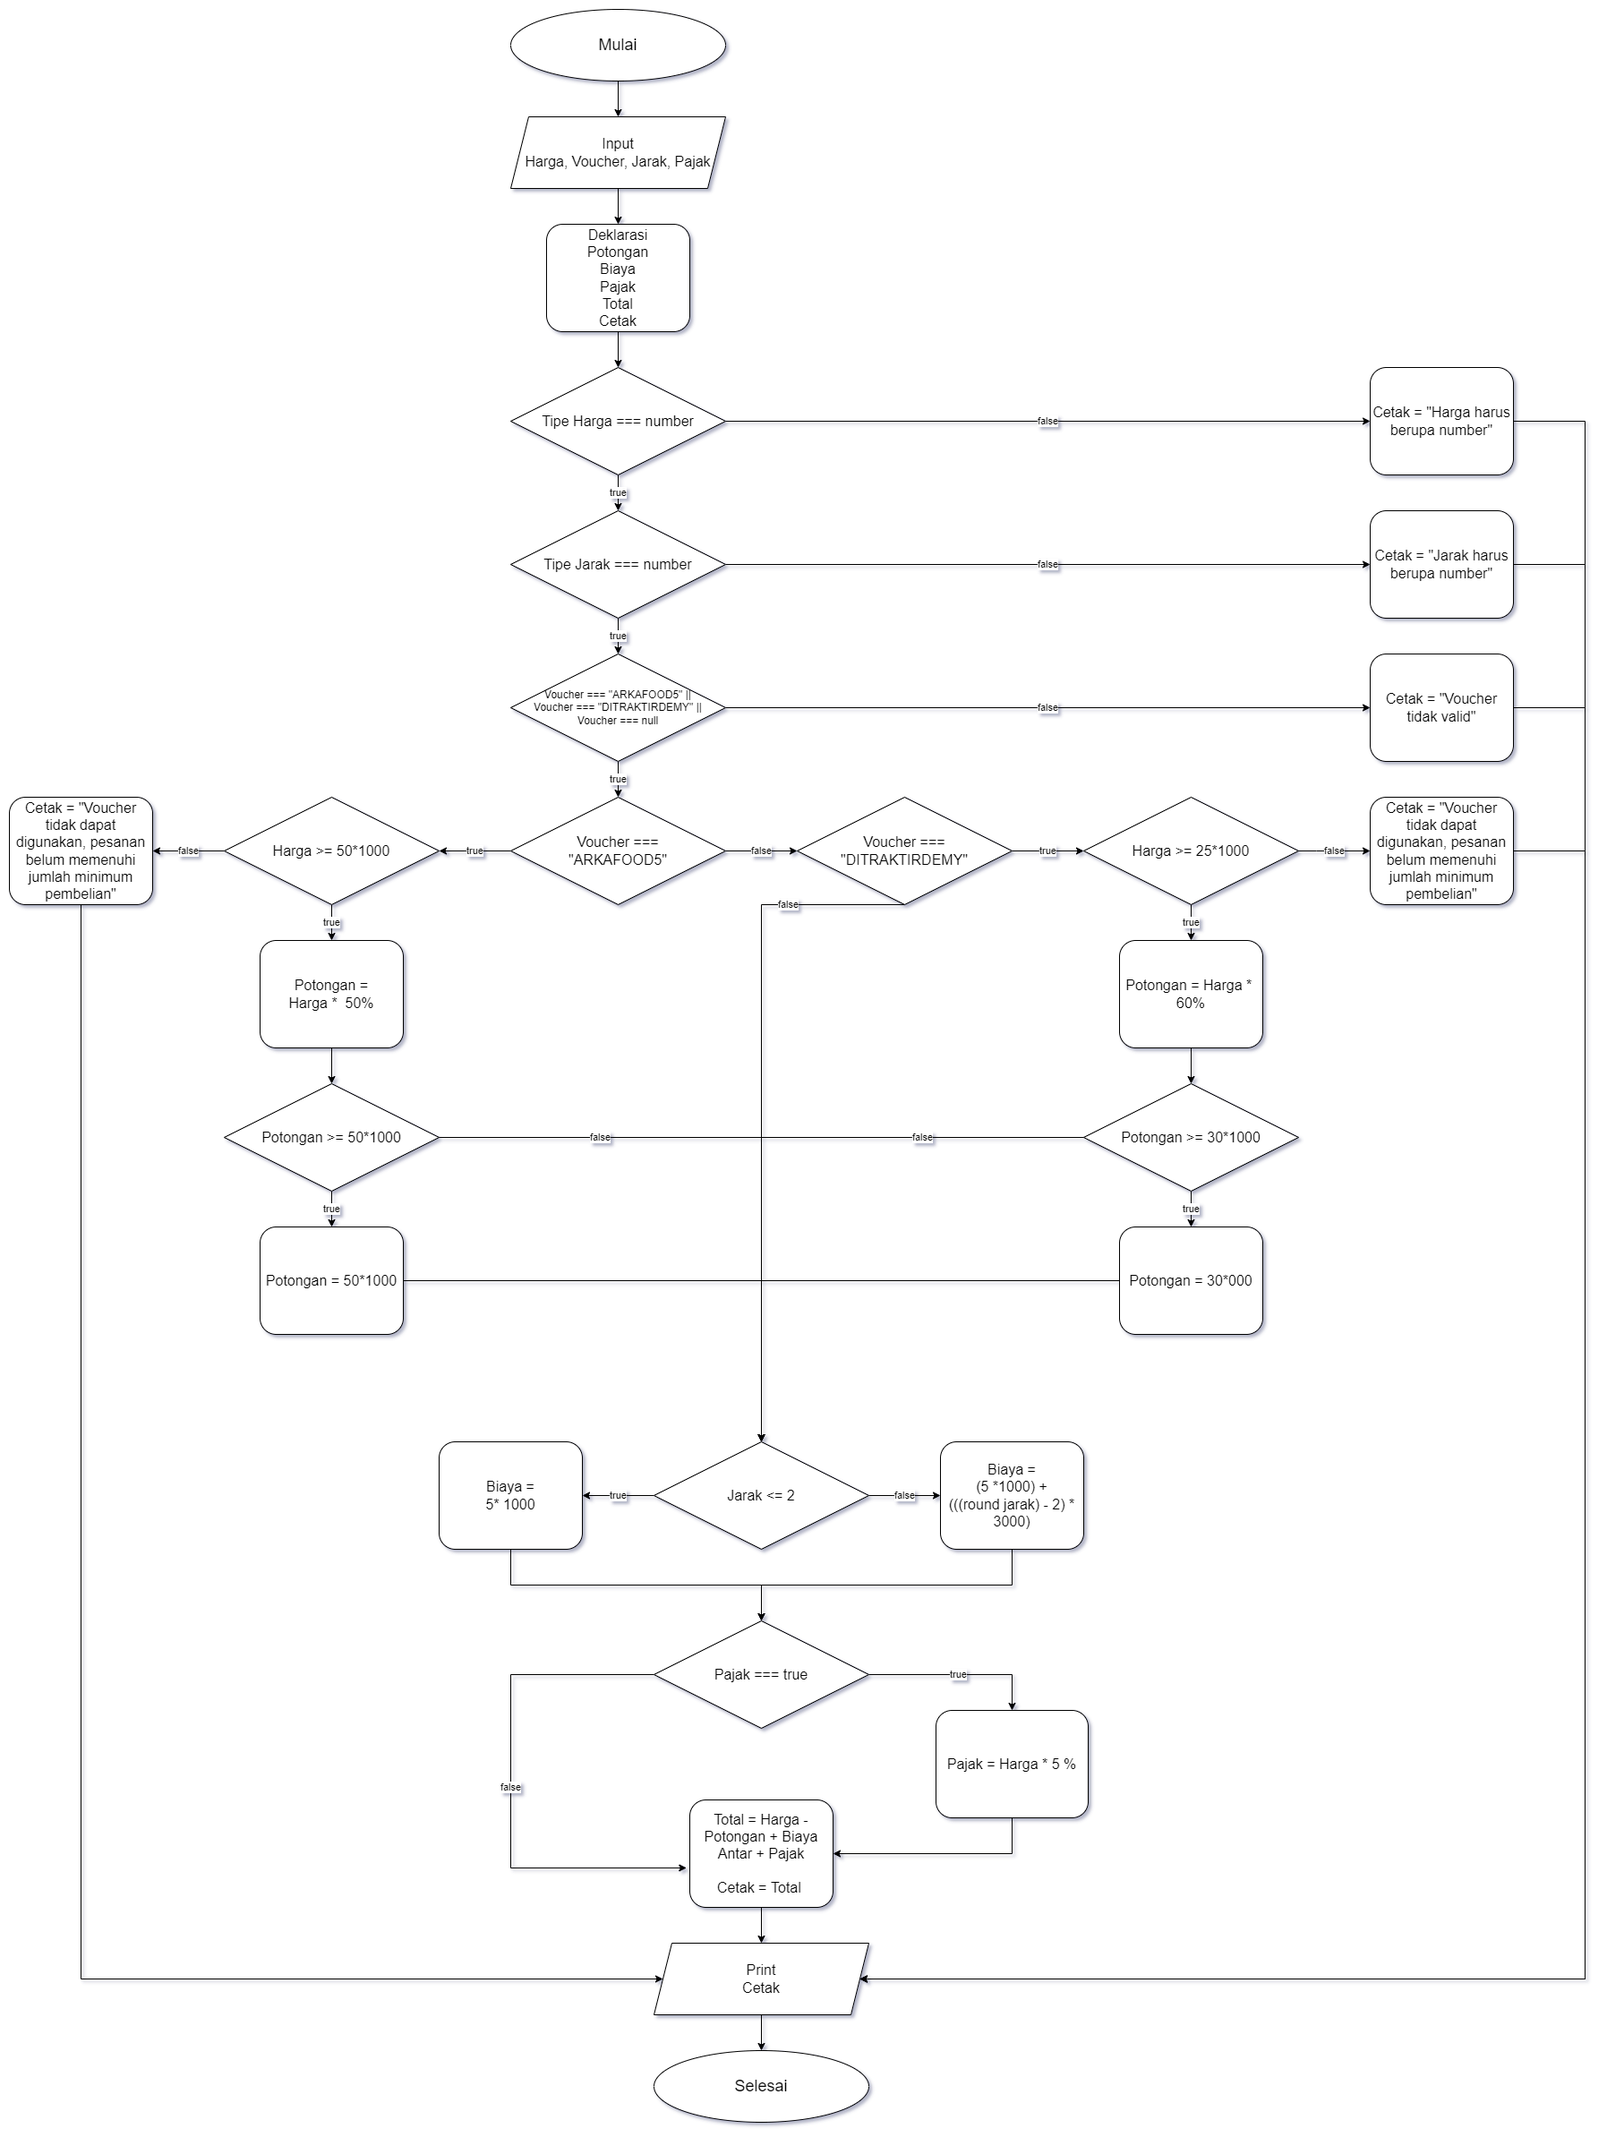
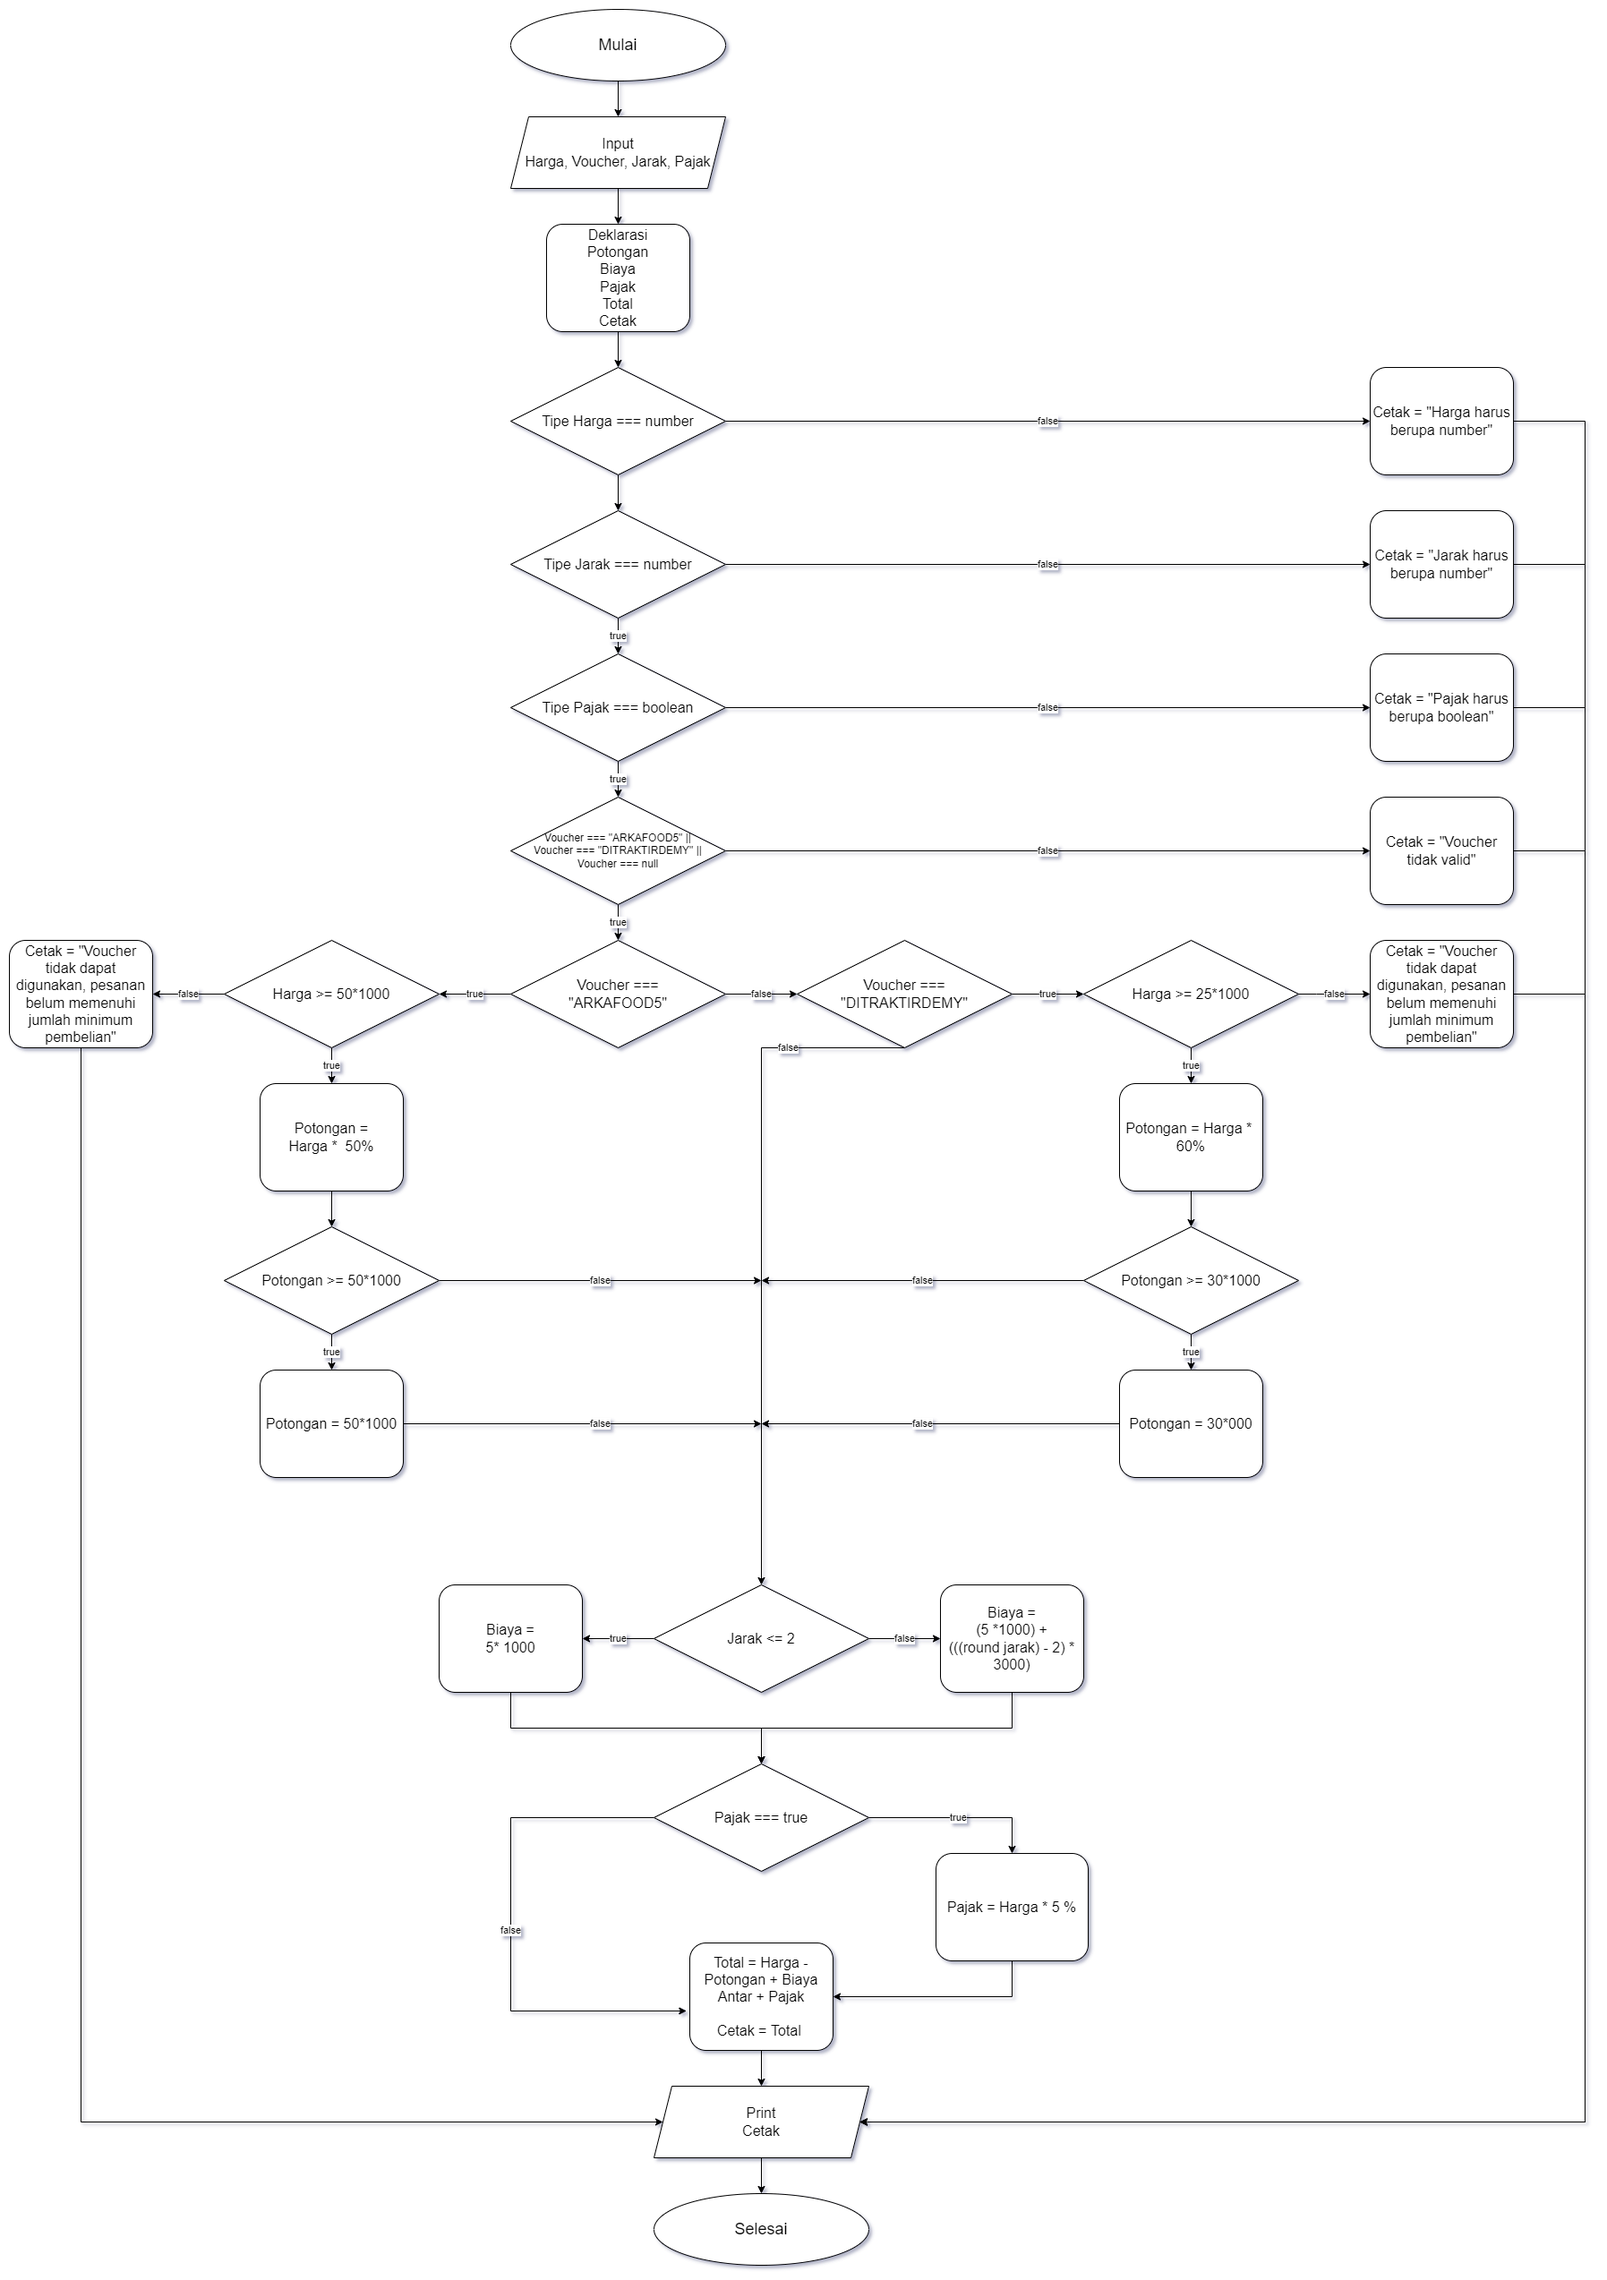
Revisi selesai

diff --git a/Tugas/2. Code Implementation/task3-2.js b/Tugas/2. Code Implementation/task3-2.js
@@ -4,32 +4,35 @@ const ArkFood = (harga, voucher, jarak, pajak)=>{
     let biayaPajak = 0;
     let total = 0;
 
-    if(typeof harga !== "number"){
-        return console.log("\nHarga harus berupa number!\n");
+    if(typeof harga !== "number"){                              //Revisi: console.log pada return dihapus
+        return "\nHarga harus berupa number!\n";
     }
     if(typeof jarak !== "number"){
-        return console.log("\nJarak harus berupa number!\n");
+        return "\nJarak harus berupa number!\n";
+    }
+    if(typeof pajak !== "boolean"){                             //Revisi: Penambahan validasi pajak
+        return "\nPajak harus berupa boolean!\n";
     }
     if(voucher !== "ARKAFOOD5" && voucher !== "DITRAKTIRDEMY" && voucher !== null){
-        return console.log("\nVoucher tidak valid\n");
+        return "\nVoucher tidak valid\n";
     }
     if(voucher === "ARKAFOOD5"){
         if(harga<=50*1000){
-            return console.log("\nVoucher tidak dapat digunakan, pesanan belum memenuhi jumlah minimum pembelian\n");
+            return "\nVoucher tidak dapat digunakan, pesanan belum memenuhi jumlah minimum pembelian\n";
         }
         potongan = harga * 50 / 100;
+        if(potongan >= 50 * 1000){                              //Revisi: Potongan dimasukan dengan nested if
+            potongan = 50 * 1000;
+        }
     }
     if(voucher === "DITRAKTIRDEMY"){
         if(harga<=25*1000){
-            return console.log("\nVoucher tidak dapat digunakan, pesanan belum memenuhi jumlah minimum pembelian\n");
+            return "\nVoucher tidak dapat digunakan, pesanan belum memenuhi jumlah minimum pembelian\n";
         }
         potongan = harga * 60 / 100;
-    }
-    if(voucher === "ARKAFOOD5" && potongan >= 50 * 1000){
-        potongan = 50 * 1000;
-    }
-    if(voucher === "DITRAKTIRDEMY" && potongan >= 25 * 1000){
-        potongan = 25 * 1000;
+        if(potongan >= 25 * 1000){                              //Revisi: Potongan dimasukan dengan nested if
+            potongan = 25 * 1000;
+        }
     }
     if(jarak >= 2){
         biayaAntar = ((5 * 1000) + ((Math.ceil(jarak) - 2) * 3 * 1000));
@@ -39,18 +42,20 @@ const ArkFood = (harga, voucher, jarak, pajak)=>{
     }
     total = harga - potongan + biayaAntar + biayaPajak;
 
-    return console.log(`
+    const cetak = `
     Harga = ${harga}
     Potongan = ${potongan}
     Biaya Antar = ${biayaAntar}
     Pajak = ${biayaPajak}
-    Total = ${total}\n`)
+    Total = ${total}\n`
+
+    return cetak;                                                //Revisi: console.log diganti dengan cetak
 }
 
 const harga = 100000;
-const voucher = "ARKAFOOD5";
-// const voucher = "DITRAKTIRDEMY";
-const jarak = 10;
-const pajak = true;
+// const voucher = "ARKAFOOD5";
+const voucher = "DITRAKTIRDEMY";
+const jarak = 3;
+const pajak = false;
 
-ArkFood(harga, voucher, jarak, pajak);
+console.log(ArkFood(harga, voucher, jarak, pajak));

diff --git a/Tugas/2. Code Implementation/task4.js b/Tugas/2. Code Implementation/task4.js
@@ -2,28 +2,21 @@ const sortir = (input)=>{
     if(typeof input !== "number"){
         return "\nInput harus berupa number!\n"
     };
-    let str = input.toString();
-    let arr = str.split("")
-    const arrLength = arr.length;
+    let arr = input.toString().split("");
     let container = [];
-    let container2 = [];
+    let output = [];                                        //Revisi: Penamaan variabel
 
-    if(typeof input !== "number"){
-        return "Input harus berupa number!"
-    }
-
-    for(i=0; i<arrLength; i++){
+    for(i=0; i<arr.length; i++){
         if(arr[i] !== "0"){
             container = container.concat(arr[i]);
-        } else{
-            container2 = container2.concat(container.sort());
-            container = [];
-        };
+            continue;                                       //Revisi: Else digantikan dengan continue
+        }
+        output = output.concat(container.sort());
+        container = [];
     };
 
-    container2 = container2.concat(container.sort());
-    let join = container2.join("");
-    let output = Number(join);
+    output = output.concat(container.sort()).join("");
+    output = Number(output);
     return output;
 };
 

diff --git a/Tugas/2. Code Implementation/task2.js b/Tugas/2. Code Implementation/task2.js
@@ -1,18 +1,17 @@
 const reverse = (input)=>{
-    const words = input.toLowerCase();
-    const wordsLength = words.length;
+    const words = input.toLowerCase();          //Revisi variabel wordsLength dihapuskan
     let container = "";
     let output = "";
 
-    for(i=0; i<wordsLength; i++){
+    for(i=0; i<words.length; i++){
         if(words[i] !== " "){
             container = container + words[i];
+            continue;                           //Revisi penambahan continue
         }
-        if(words[i] === " "){
-            output = " " + container +  output;
-            container = "";
-        }
+        output = " " + container +  output;
+        container = "";
     }
+
     output = container + " " + output;
     return output;
 };

diff --git a/Tugas/2. Code Implementation/task1.js b/Tugas/2. Code Implementation/task1.js
@@ -1,13 +1,11 @@
 const deteksiPalindrom = (input)=>{
     const word = input.toLowerCase();
-    const panjangTeks = word.length;
-    let output = "palindrom";
-    for(i=0; i<panjangTeks; i++){
-        if(word[i] !== word[panjangTeks-1-i]){
-            return output = "bukan palindrom";
+    for(i=0; i<word.length; i++){                   //Revisi panjangTeks dihapus
+        if(word[i] !== word[word.length-1-i]){
+            return "bukan palindrom";
         }
     };
-    return output;
+    return "palindrom";                             //Revisi variabel output
 };
 
 const teks = "Kasur kakak rusak";
